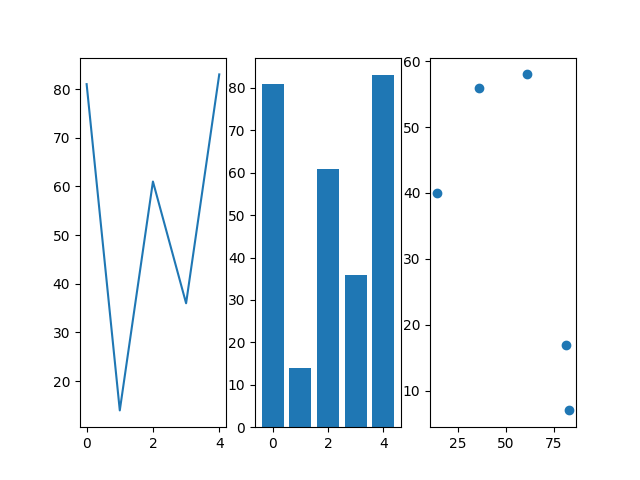
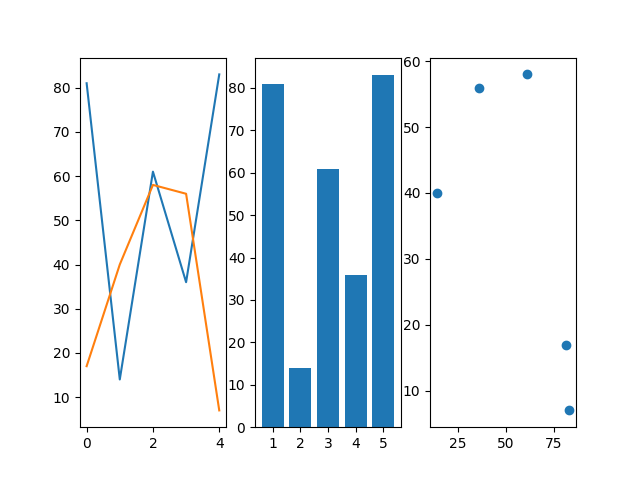
Cleanup: removed flaskext markdown
Using Python markdown instead.

diff --git a/app/templates/index.html b/app/templates/index.html
@@ -1,9 +1,9 @@
 {% extends "base.html" %}
 {% block content %}
     <div>
-	<h1 class="title">{{ post.title }}</h1>
-	<p>{{ post.body|markdown }}</p>
-	<br><p class="posted">Posted: {{ post.created.strftime('%Y, %B-%d') }} </p>
+	<h1 class="title">{{ title }}</h1>
+	{{ body|safe }}
+	<br><p class="posted">Posted: {{ date.strftime('%Y, %B-%d') }} </p>
     </div>
     <div class ="nextprev">
 	{% if older %}

diff --git a/app/templates/base.html b/app/templates/base.html
@@ -18,6 +18,6 @@
 		<li><a href='https://github.com/erkearney' target='_blank'>Portfolio</a></li>
 	    </ul>
 	</div>
+	{% block content %}{% endblock %}
     </body>
-    {% block content %}{% endblock %}
 </html>

diff --git a/app/routes.py b/app/routes.py
@@ -3,6 +3,7 @@ Hook urls to html files in the templates directory.
 """
 from flask import render_template, url_for, request, session, g
 from app import app, database
+import markdown
 
 
 @app.route('/', methods=['GET'])
@@ -71,34 +72,25 @@ def show_post_by_id(post_id):
         ' FROM post p',
     ).fetchone()
 
-    return render_template('index.html', post=post, title=title, older=older, newer=newer, newest=newest)
+    md = markdown.Markdown(extenstions=['fenced_code'])
+    body = md.convert(post['body'])
+    title = post['title']
+    date = post['created']
+
+    return render_template('index.html', body=body, title=title, date=date, older=older, newer=newer, newest=newest)
 
 
 @app.route('/newest', methods=['GET'])
 def show_newest_post():
     db = database.get_database()
-    post = db.execute(
-        'SELECT p.id, title, body, created'
+    newest_post = db.execute(
+        'SELECT p.id, created'
         ' FROM post p'
         ' WHERE p.id = (SELECT MAX(id) FROM post)',
     ).fetchone()
-    g.id = post['id']
-    title = post['title']
-    post_id = post['id']
+    session['post_id'] = newest_post['id']
 
-    older = db.execute(
-        'SELECT p.id'
-        ' FROM post p'
-        ' WHERE p.id = ?', (str(int(post_id) - 1)),
-    ).fetchone()
-
-    newer = db.execute(
-        'SELECT p.id'
-        ' FROM post p'
-        ' WHERE p.id = ?', (str(int(post_id) + 1)),
-    ).fetchone()
-
-    return render_template('index.html', post=post, title=title, older=older, newer=newer)
+    return show_post_by_id(str(newest_post['id']))
 
 
 

diff --git a/app/__init__.py b/app/__init__.py
@@ -4,24 +4,16 @@ Create the Flask instance
 import os
 
 from flask import Flask
-from flaskext.markdown import Markdown
 
 app = Flask(__name__)
-Markdown(app)
 from app import routes
 
 from . import database
-
 
 app.config.from_mapping(
     SECRET_KEY='dev',
     DATABASE=os.path.join(app.instance_path, 'aeryck.sqlite'),
 )
-
-#if test_config is None:
-#    app.config.from_pyfile('config.py', silent=True)
-#else:
-#    app.config.from_mapping(test_config)
 
 try:
     os.makedirs(app.instance_path)

diff --git a/code_posts/data_visualization/1part_matplotlib_examples.py b/code_posts/data_visualization/1part_matplotlib_examples.py
@@ -19,11 +19,10 @@ ax1.plot(data1)
 ax2.plot(data2)
 plt.show()
 
-data1 = [81, 14, 61, 36, 83]
-data2 = [17, 40, 58, 56, 7]
 fig, (ax1, ax2, ax3) = plt.subplots(1, 3)
 ax1.plot(data1)
-bar_labels = [0, 1, 2, 3, 4]
+ax1.plot(data2)
+bar_labels = ['1', '2', '3', '4', '5']
 ax2.bar(bar_labels, data1)
 ax3.scatter(data1, data2)
 plt.show()

diff --git a/posts/Data_Visualization:_Matplotlib_Basic_Plotting.md b/posts/Data_Visualization:_Matplotlib_Basic_Plotting.md
@@ -4,7 +4,6 @@ to non-data scientists much more easily. In these next posts, we're going to
 learn how to effectively use matplotlib to further these skills. The matplotlib
 mini-tutorial will be split into three key sections:
 
-
 ### [Basic plotting](https://aeryck.com/post:5)
 ### Customization
 ### The Object-Oriented API
@@ -17,10 +16,9 @@ All of the code in this tutorial can be found
 
 Let's start by generating some random numbers to plot:
 
-<pre><code>import random
-data = random.sample(range(100), 10)
-print(data)
-</code></pre>
+    import random
+    data = random.sample(range(100), 10)
+    print(data)
 
 #### Output: [93, 24, 37, 15, 59, 89, 31, 52, 2, 72]
 
@@ -33,7 +31,7 @@ Now let's plot the data:
 
     plt.show()
 
-![matplotlib figure 1](/static/images/data_visualization_matplotlib_1.png
+![matplotlib figure 1](/static/images/data_visualization_matplotlib_1.png 
 "Figure 1: Random numbers plotted")
 
 ###### (Clearly, if you're following along with me, your plot will look different due to the numbers being randomly generated)
@@ -70,7 +68,8 @@ previously generated data:
 
     fig, (ax1, ax2, ax3) = plt.subplots(1, 3)
     ax1.plot(data1)
-    bar_labels = [0, 1, 2, 3, 4]
+    ax1.plot(data2)
+    bar_labels = ['1', '2', '3', '4', '5']
     ax2.bar(bar_labels, data1)
     ax3.scatter(data1, data2)
     plt.show()
